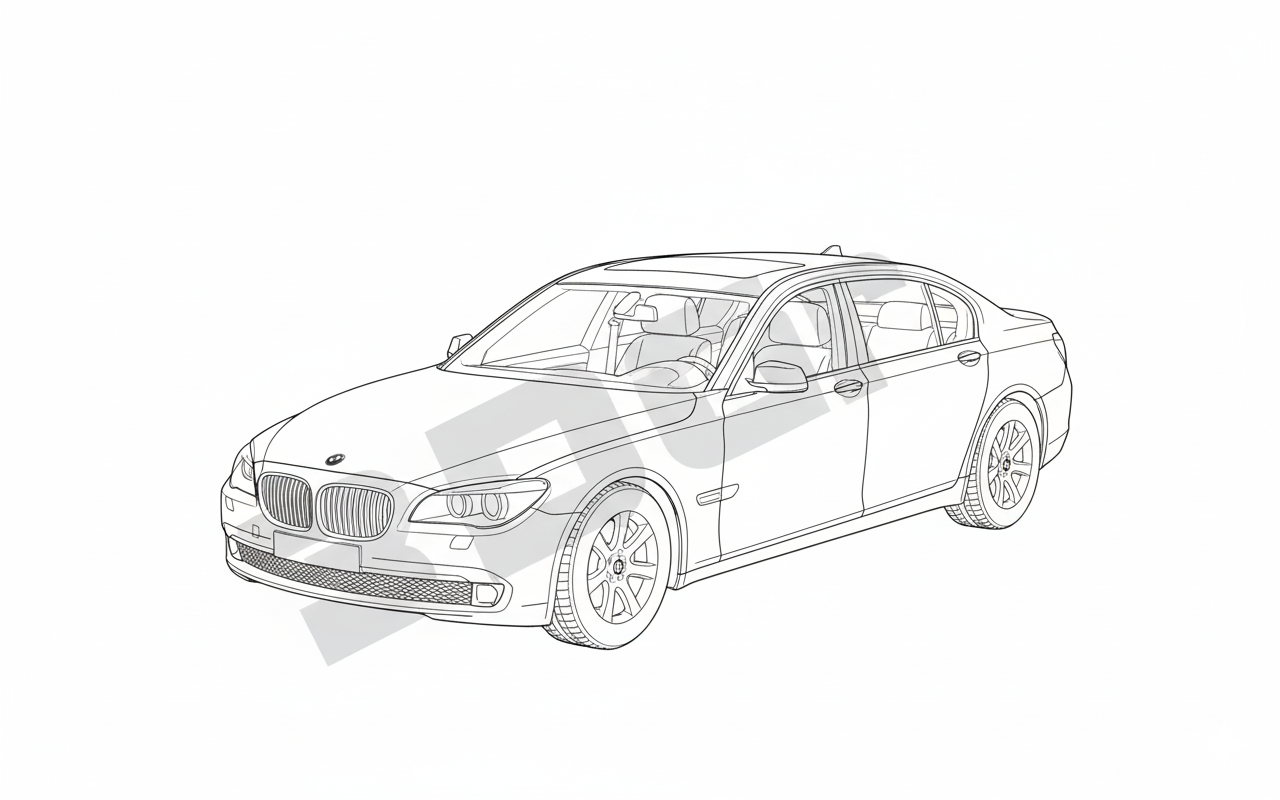
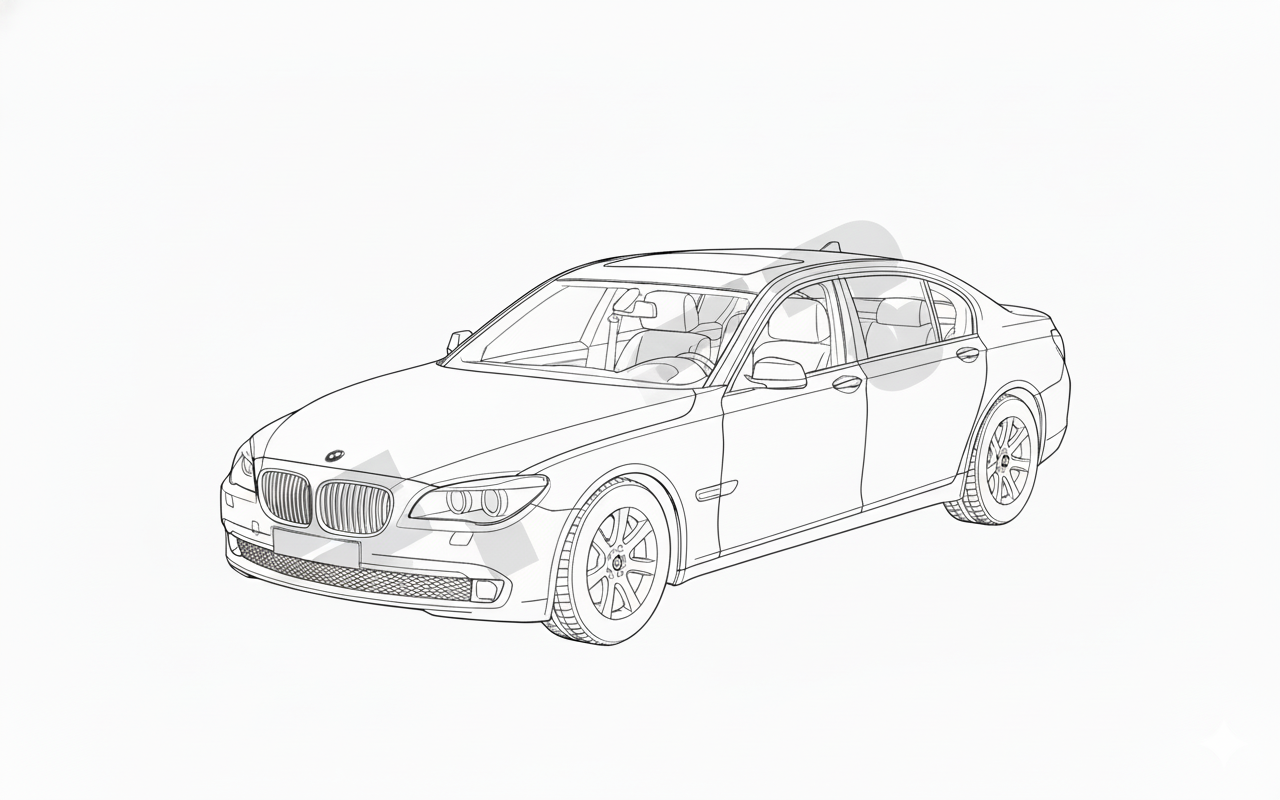
fix profile-stat-graph view

Changed region(s): [[0.1562, 0.25, 0.8438, 0.8438], [0.25, 0.4688, 0.3125, 0.5], [0.2188, 0.5, 0.25, 0.5312]]

diff --git a/core/templates/core/profile.html b/core/templates/core/profile.html
@@ -315,7 +315,7 @@
             <div class="row g-3">
                 <div class="col-xl-8">
                     <div class="stats-card mb-3">
-                        <h6 class="mb-2">Посещения (90 дней)</h6>
+                        <h6 class="mb-2">Посещения (12 месяцев)</h6>
                         <div style="height:240px">
                             <canvas id="visitsChart"></canvas>
                         </div>

diff --git a/core/views.py b/core/views.py
@@ -175,6 +175,7 @@ def profile(request):
     )
 
     today = timezone.localtime(timezone.now()).date()
+    # Базовый queryset за последние 90 дней для остальных виджетов (как было)
     start_date = today - timedelta(days=89)
     appt_qs = Appointment.objects.filter(
         car__owner=request.user,
@@ -182,12 +183,40 @@ def profile(request):
         scheduled_date__lte=today,
     ).select_related("service_type", "service_center")
 
-    counts_by_date = {
-        row["scheduled_date"]: row["c"]
-        for row in appt_qs.values("scheduled_date").annotate(c=Count("id"))
-    }
-    labels = [(start_date + timedelta(days=i)).isoformat() for i in range(90)]
-    data = [counts_by_date.get(start_date + timedelta(days=i), 0) for i in range(90)]
+    def month_iter(end_date, months_back=11):
+        y = end_date.year
+        m = end_date.month
+        seq = []
+        total = months_back + 1
+        for i in range(total - 1, -1, -1):
+            yy = y
+            mm = m - i
+            while mm <= 0:
+                yy -= 1
+                mm += 12
+            seq.append((yy, mm))
+        return seq
+
+    def first_day_of_month(y, m):
+        return date(y, m, 1)
+
+    months = month_iter(today, months_back=11)
+    start_month = first_day_of_month(months[0][0], months[0][1])
+
+    appt_qs_12m = Appointment.objects.filter(
+        car__owner=request.user,
+        scheduled_date__gte=start_month,
+        scheduled_date__lte=today,
+    )
+    by_month = (
+        appt_qs_12m.values("scheduled_date__year", "scheduled_date__month")
+        .annotate(c=Count("id"))
+        .values_list("scheduled_date__year", "scheduled_date__month", "c")
+    )
+    month_map = {(y, m): c for (y, m, c) in by_month}
+
+    labels = [f"{mm:02d}.{yy}" for (yy, mm) in months]
+    data = [month_map.get((yy, mm), 0) for (yy, mm) in months]
 
     total_cost = (
         appt_qs.filter(status="COMPLETED").aggregate(total=Sum("service_type__price"))[
